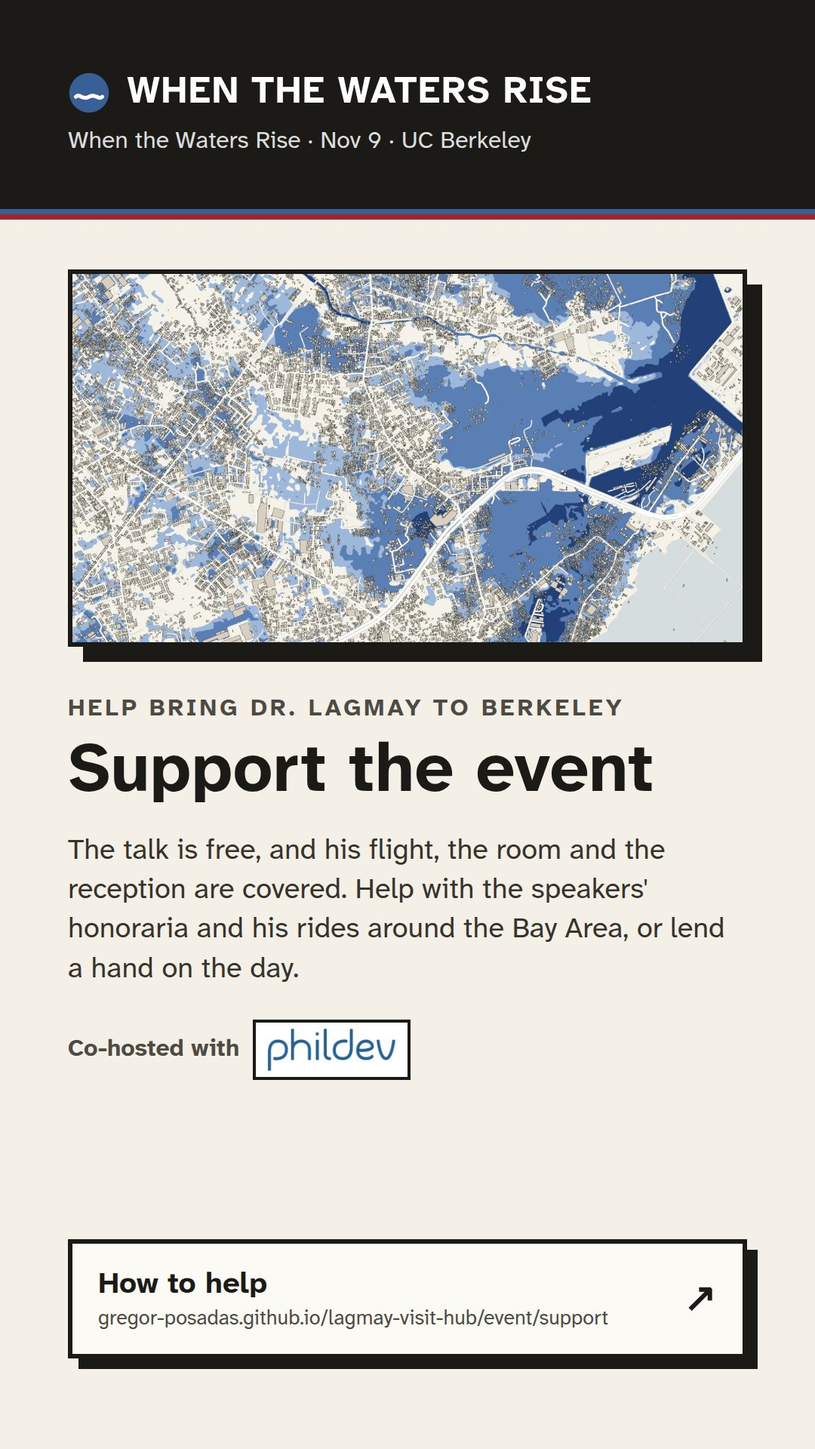
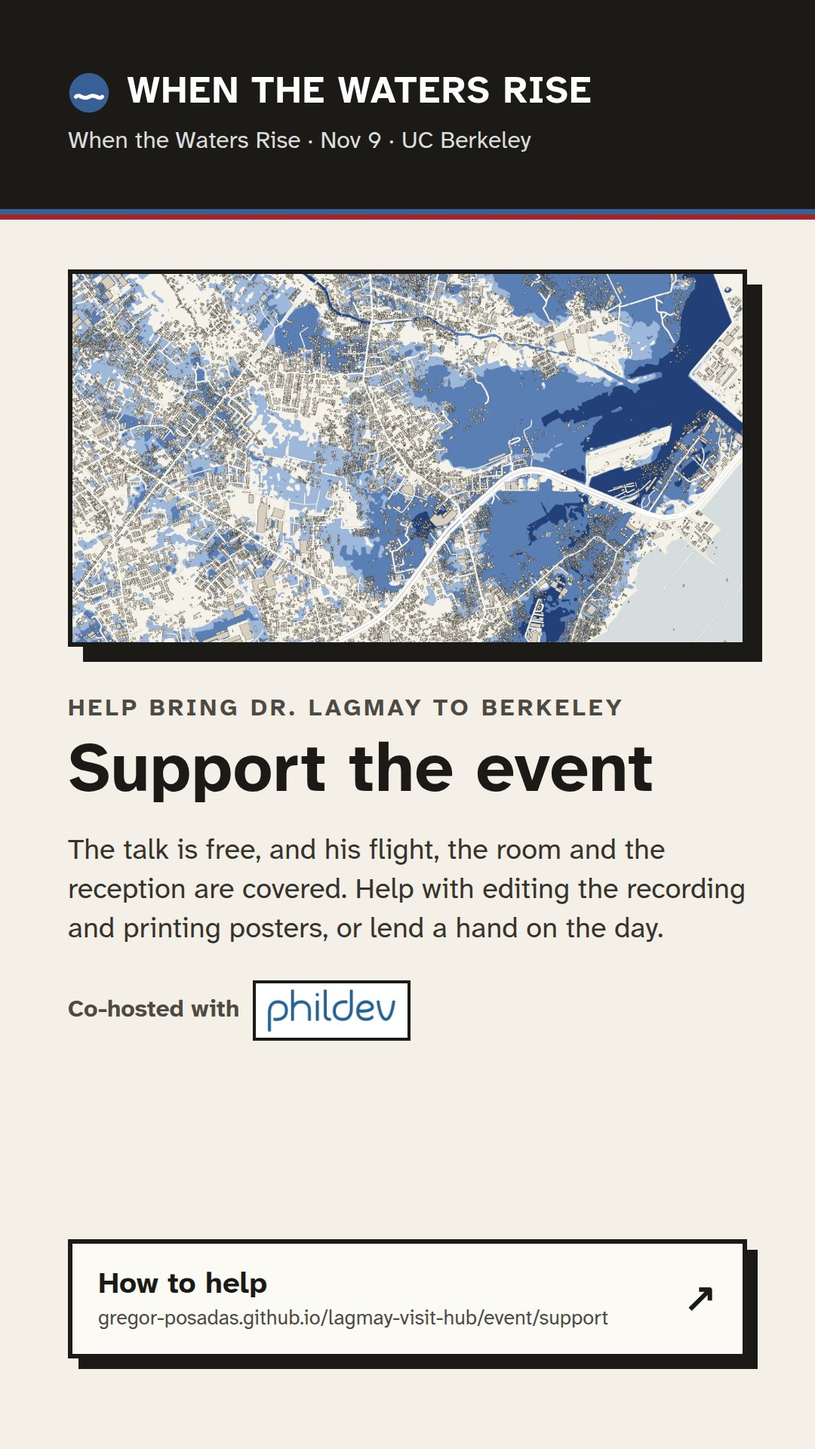
Add a Canva import page with the event graphic in five sizes; update the support share card (no more honoraria or rides)
Claude-Session: https://claude.ai/code/session_015T1wj811kShnpGQCCcZ9Q9

Changed region(s): [[0.0917, 0.5938, 0.9167, 0.75]]

diff --git a/event/canva/index.html b/event/canva/index.html
@@ -1,0 +1,13 @@
+<!doctype html><html lang="en"><head><meta charset="utf-8"><meta name="robots" content="noindex">
+<title>When the Waters Rise: graphics for Canva</title><style>
+@font-face { font-family: 'Atkinson Hyperlegible'; src: url(../../fonts/AtkinsonHyperlegibleNext-Regular.woff2); }
+@font-face { font-family: 'Atkinson Hyperlegible'; font-weight: 700; src: url(../../fonts/AtkinsonHyperlegibleNext-Bold.woff2); }
+body { margin: 0; background: #888; font-family: 'Atkinson Hyperlegible', sans-serif; }
+section { position: relative; overflow: hidden; margin: 0 0 40px; background: #f4f0e8; font-family: 'Atkinson Hyperlegible', sans-serif; }
+</style></head><body>
+<section data-document-role="page" data-label="Wide 1920 x 1080 (screens, slides, calendars)" style="width:1920px;height:1080px"><img src="map-wide.jpg" alt="Map of a Metro Manila neighborhood, streets and buildings, shaded blue where a 100-year flood would reach (UP NOAH)" style="position:absolute;left:0px;top:0px;width:820px;height:1080px"><div style="position:absolute;left:0px;top:1062px;width:820px;height:9.0px;background:#385F96;box-sizing:border-box"></div><div style="position:absolute;left:0px;top:1071.0px;width:820px;height:9.0px;background:#A3242A;box-sizing:border-box"></div><div style="position:absolute;left:820px;top:0px;width:8px;height:1080px;background:#1b1a17;box-sizing:border-box"></div><img src="wave-icon.png" alt="Wave icon" style="position:absolute;left:924px;top:72px;width:44px;height:44px"><p style="position:absolute;left:983.0px;top:76.0px;width:700px;margin:0;font-size:30px;font-weight:700;color:#1b1a17;line-height:1.2;letter-spacing:0.04em">WHEN THE WATERS RISE</p><p style="position:absolute;left:924px;top:158.4px;width:192px;margin:0;font-size:26px;font-weight:700;color:#4d4a43;line-height:1.2;letter-spacing:0em">Co-hosted with</p><img src="phildev-box.png" alt="PhilDev, the Philippine Development Foundation" style="position:absolute;left:1132px;top:138px;width:185px;height:72px"><p style="position:absolute;left:924px;top:252px;width:900px;margin:0;font-size:30px;font-weight:700;color:#4d4a43;line-height:1.2;letter-spacing:0.12em">FREE PUBLIC TALK · MON, NOV 9 · UC BERKELEY</p><h1 style="position:absolute;left:924px;top:300px;width:900px;margin:0;font-size:88px;font-weight:700;color:#1b1a17;line-height:1.04;letter-spacing:0em">Dr. Mahar Lagmay at UC Berkeley</h1><p style="position:absolute;left:924px;top:510px;width:880px;margin:0;font-size:34px;font-weight:400;color:#36332d;line-height:1.4;letter-spacing:0em">The scientist behind Project NOAH&#x27;s national flood maps, in conversation with UC Berkeley scholars Dr. Lisandro Claudio and Dr. Diana Martinez. Everyone welcome.</p><div style="position:absolute;left:924px;top:712px;width:850px;height:108px;background:#fcfaf5;border:4px solid #1b1a17;box-sizing:border-box"></div><p style="position:absolute;left:948px;top:730.36px;width:230px;margin:0;font-size:30px;font-weight:700;color:#1b1a17;line-height:1.2;letter-spacing:0em">4 to 5 PM</p><p style="position:absolute;left:948px;top:769.36px;width:230px;margin:0;font-size:24px;font-weight:400;color:#4d4a43;line-height:1.2;letter-spacing:0em">Monday, November 9</p><div style="position:absolute;left:1194px;top:716px;width:2px;height:100px;background:#cfc8b8;box-sizing:border-box"></div><p style="position:absolute;left:1218px;top:730.36px;width:290px;margin:0;font-size:30px;font-weight:700;color:#1b1a17;line-height:1.2;letter-spacing:0em">Banatao Auditorium</p><p style="position:absolute;left:1218px;top:769.36px;width:290px;margin:0;font-size:24px;font-weight:400;color:#4d4a43;line-height:1.2;letter-spacing:0em">Sutardja Dai Hall</p><div style="position:absolute;left:1524px;top:716px;width:2px;height:100px;background:#cfc8b8;box-sizing:border-box"></div><p style="position:absolute;left:1548px;top:730.36px;width:210px;margin:0;font-size:30px;font-weight:700;color:#1b1a17;line-height:1.2;letter-spacing:0em">Free</p><p style="position:absolute;left:1548px;top:769.36px;width:210px;margin:0;font-size:24px;font-weight:400;color:#4d4a43;line-height:1.2;letter-spacing:0em">Livestreamed too</p><div style="position:absolute;left:936px;top:870px;width:740px;height:160px;background:#1b1a17;box-sizing:border-box"></div><div style="position:absolute;left:924px;top:858px;width:740px;height:160px;background:#fcfaf5;border:5px solid #1b1a17;box-sizing:border-box"></div><img src="qr-rsvp.png" alt="QR code for the event page" style="position:absolute;left:942.0px;top:876.0px;width:124px;height:124px"><p style="position:absolute;left:1090.0px;top:894.4px;width:554.0px;margin:0;font-size:38px;font-weight:700;color:#1b1a17;line-height:1.15;letter-spacing:0em">RSVP</p><p style="position:absolute;left:1090.0px;top:946.0px;width:554.0px;margin:0;font-size:26px;font-weight:400;color:#4d4a43;line-height:1.2;letter-spacing:0em">gregor-posadas.github.io/lagmay-visit-hub/event</p></section>
+<section data-document-role="page" data-label="Facebook post / link preview 1200 x 630" style="width:1200px;height:630px"><img src="map-fb.jpg" alt="Map of a Metro Manila neighborhood, streets and buildings, shaded blue where a 100-year flood would reach (UP NOAH)" style="position:absolute;left:0px;top:0px;width:470px;height:630px"><div style="position:absolute;left:0px;top:618px;width:470px;height:6.0px;background:#385F96;box-sizing:border-box"></div><div style="position:absolute;left:0px;top:624.0px;width:470px;height:6.0px;background:#A3242A;box-sizing:border-box"></div><div style="position:absolute;left:470px;top:0px;width:6px;height:630px;background:#1b1a17;box-sizing:border-box"></div><p style="position:absolute;left:532px;top:54px;width:620px;margin:0;font-size:24px;font-weight:700;color:#4d4a43;line-height:1.2;letter-spacing:0.12em">FREE · MON, NOV 9 · 4 TO 5 PM</p><h1 style="position:absolute;left:532px;top:92px;width:620px;margin:0;font-size:66px;font-weight:700;color:#1b1a17;line-height:1.05;letter-spacing:0em">When the Waters Rise</h1><p style="position:absolute;left:532px;top:246px;width:612px;margin:0;font-size:27px;font-weight:400;color:#36332d;line-height:1.4;letter-spacing:0em">Dr. Mahar Lagmay of Project NOAH, with UC Berkeley scholars Dr. Lisandro Claudio and Dr. Diana Martinez, on flooding in the Philippines.</p><div style="position:absolute;left:540px;top:410px;width:470px;height:56px;background:#1b1a17;box-sizing:border-box"></div><div style="position:absolute;left:532px;top:402px;width:470px;height:56px;background:#fcfaf5;border:4px solid #1b1a17;box-sizing:border-box"></div><p style="position:absolute;left:550px;top:416px;width:440px;margin:0;font-size:22px;font-weight:700;color:#1b1a17;line-height:1.2;letter-spacing:0em">RSVP · Banatao Auditorium, UC Berkeley</p><p style="position:absolute;left:532px;top:513.0px;width:148px;margin:0;font-size:20px;font-weight:700;color:#4d4a43;line-height:1.2;letter-spacing:0em">Co-hosted with</p><img src="phildev-box.png" alt="PhilDev, the Philippine Development Foundation" style="position:absolute;left:692px;top:500px;width:129px;height:50px"></section>
+<section data-document-role="page" data-label="Instagram post 1080 x 1350" style="width:1080px;height:1350px"><img src="map-post.jpg" alt="Map of a Metro Manila neighborhood, streets and buildings, shaded blue where a 100-year flood would reach (UP NOAH)" style="position:absolute;left:0px;top:0px;width:1080px;height:430px"><div style="position:absolute;left:0px;top:430px;width:1080px;height:8.0px;background:#385F96;box-sizing:border-box"></div><div style="position:absolute;left:0px;top:438.0px;width:1080px;height:8.0px;background:#A3242A;box-sizing:border-box"></div><img src="wave-icon.png" alt="Wave icon" style="position:absolute;left:90px;top:488px;width:44px;height:44px"><p style="position:absolute;left:149.0px;top:492.0px;width:700px;margin:0;font-size:30px;font-weight:700;color:#1b1a17;line-height:1.2;letter-spacing:0.04em">WHEN THE WATERS RISE</p><p style="position:absolute;left:90px;top:568.4px;width:192px;margin:0;font-size:26px;font-weight:700;color:#4d4a43;line-height:1.2;letter-spacing:0em">Co-hosted with</p><img src="phildev-box.png" alt="PhilDev, the Philippine Development Foundation" style="position:absolute;left:298px;top:552px;width:165px;height:64px"><p style="position:absolute;left:90px;top:652px;width:900px;margin:0;font-size:26px;font-weight:700;color:#4d4a43;line-height:1.2;letter-spacing:0.12em">FREE PUBLIC TALK · MON, NOV 9 · UC BERKELEY</p><h1 style="position:absolute;left:90px;top:696px;width:900px;margin:0;font-size:80px;font-weight:700;color:#1b1a17;line-height:1.04;letter-spacing:0em">Dr. Mahar Lagmay at UC Berkeley</h1><p style="position:absolute;left:90px;top:880px;width:900px;margin:0;font-size:30px;font-weight:400;color:#36332d;line-height:1.38;letter-spacing:0em">The scientist behind Project NOAH&#x27;s national flood maps, in conversation with UC Berkeley scholars Dr. Lisandro Claudio and Dr. Diana Martinez. Everyone welcome.</p><div style="position:absolute;left:90px;top:1044px;width:900px;height:100px;background:#fcfaf5;border:4px solid #1b1a17;box-sizing:border-box"></div><p style="position:absolute;left:114px;top:1061.0px;width:220px;margin:0;font-size:28px;font-weight:700;color:#1b1a17;line-height:1.2;letter-spacing:0em">4 to 5 PM</p><p style="position:absolute;left:114px;top:1097.4px;width:220px;margin:0;font-size:22px;font-weight:400;color:#4d4a43;line-height:1.2;letter-spacing:0em">Monday, November 9</p><div style="position:absolute;left:350px;top:1048px;width:2px;height:92px;background:#cfc8b8;box-sizing:border-box"></div><p style="position:absolute;left:374px;top:1061.0px;width:320px;margin:0;font-size:28px;font-weight:700;color:#1b1a17;line-height:1.2;letter-spacing:0em">Banatao Auditorium</p><p style="position:absolute;left:374px;top:1097.4px;width:320px;margin:0;font-size:22px;font-weight:400;color:#4d4a43;line-height:1.2;letter-spacing:0em">Sutardja Dai Hall</p><div style="position:absolute;left:710px;top:1048px;width:2px;height:92px;background:#cfc8b8;box-sizing:border-box"></div><p style="position:absolute;left:734px;top:1061.0px;width:240px;margin:0;font-size:28px;font-weight:700;color:#1b1a17;line-height:1.2;letter-spacing:0em">Free</p><p style="position:absolute;left:734px;top:1097.4px;width:240px;margin:0;font-size:22px;font-weight:400;color:#4d4a43;line-height:1.2;letter-spacing:0em">Livestreamed too</p><div style="position:absolute;left:100px;top:1190px;width:888px;height:118px;background:#1b1a17;box-sizing:border-box"></div><div style="position:absolute;left:90px;top:1180px;width:888px;height:118px;background:#fcfaf5;border:5px solid #1b1a17;box-sizing:border-box"></div><img src="qr-rsvp.png" alt="QR code for the event page" style="position:absolute;left:103.0px;top:1193.0px;width:92px;height:92px"><p style="position:absolute;left:219.0px;top:1202.6px;width:739.0px;margin:0;font-size:32px;font-weight:700;color:#1b1a17;line-height:1.15;letter-spacing:0em">RSVP</p><p style="position:absolute;left:219.0px;top:1247.0px;width:739.0px;margin:0;font-size:24px;font-weight:400;color:#4d4a43;line-height:1.2;letter-spacing:0em">gregor-posadas.github.io/lagmay-visit-hub/event</p></section>
+<section data-document-role="page" data-label="Story / phone 1080 x 1920" style="width:1080px;height:1920px"><div style="position:absolute;left:0px;top:0px;width:1080px;height:282px;background:#1b1a17;box-sizing:border-box"></div><img src="wave-icon.png" alt="Wave icon" style="position:absolute;left:90px;top:90px;width:60px;height:60px"><p style="position:absolute;left:172px;top:90px;width:820px;margin:0;font-size:50px;font-weight:700;color:#ffffff;line-height:1.2;letter-spacing:0.02em">WHEN THE WATERS RISE</p><p style="position:absolute;left:90px;top:172px;width:900px;margin:0;font-size:32px;font-weight:400;color:#dddddd;line-height:1.3;letter-spacing:0em">Flooding in the Philippines, a public conversation</p><div style="position:absolute;left:0px;top:282px;width:1080px;height:7.0px;background:#385F96;box-sizing:border-box"></div><div style="position:absolute;left:0px;top:289.0px;width:1080px;height:7.0px;background:#A3242A;box-sizing:border-box"></div><div style="position:absolute;left:110px;top:382px;width:900px;height:500px;background:#1b1a17;box-sizing:border-box"></div><div style="position:absolute;left:90px;top:362px;width:900px;height:500px;background:#1b1a17;box-sizing:border-box"></div><img src="map-story.jpg" alt="Map of a Metro Manila neighborhood, streets and buildings, shaded blue where a 100-year flood would reach (UP NOAH)" style="position:absolute;left:96px;top:368px;width:888px;height:488px"><p style="position:absolute;left:90px;top:930px;width:900px;margin:0;font-size:32px;font-weight:700;color:#4d4a43;line-height:1.2;letter-spacing:0.12em">FREE PUBLIC TALK · MON, NOV 9 · 4 TO 5 PM</p><h1 style="position:absolute;left:90px;top:978px;width:900px;margin:0;font-size:92px;font-weight:700;color:#1b1a17;line-height:1.05;letter-spacing:0em">Dr. Mahar Lagmay at UC Berkeley</h1><p style="position:absolute;left:90px;top:1196px;width:900px;margin:0;font-size:38px;font-weight:400;color:#36332d;line-height:1.38;letter-spacing:0em">The scientist behind Project NOAH&#x27;s national flood maps, in conversation with UC Berkeley scholars Dr. Lisandro Claudio and Dr. Diana Martinez. Banatao Auditorium. Everyone welcome.</p><p style="position:absolute;left:90px;top:1520.8px;width:237px;margin:0;font-size:32px;font-weight:700;color:#4d4a43;line-height:1.2;letter-spacing:0em">Co-hosted with</p><img src="phildev-box.png" alt="PhilDev, the Philippine Development Foundation" style="position:absolute;left:349px;top:1500px;width:206px;height:80px"><div style="position:absolute;left:104px;top:1654px;width:900px;height:160px;background:#1b1a17;box-sizing:border-box"></div><div style="position:absolute;left:90px;top:1640px;width:900px;height:160px;background:#fcfaf5;border:5px solid #1b1a17;box-sizing:border-box"></div><img src="qr-rsvp.png" alt="QR code for the event page" style="position:absolute;left:108.0px;top:1658.0px;width:124px;height:124px"><p style="position:absolute;left:256.0px;top:1674.0px;width:714.0px;margin:0;font-size:40px;font-weight:700;color:#1b1a17;line-height:1.15;letter-spacing:0em">RSVP</p><p style="position:absolute;left:256.0px;top:1728.0px;width:714.0px;margin:0;font-size:26px;font-weight:400;color:#4d4a43;line-height:1.2;letter-spacing:0em">gregor-posadas.github.io/lagmay-visit-hub/event</p></section>
+<section data-document-role="page" data-label="Square 1080 x 1080" style="width:1080px;height:1080px"><img src="map-square.jpg" alt="Map of a Metro Manila neighborhood, streets and buildings, shaded blue where a 100-year flood would reach (UP NOAH)" style="position:absolute;left:0px;top:0px;width:1080px;height:300px"><div style="position:absolute;left:0px;top:300px;width:1080px;height:7.0px;background:#385F96;box-sizing:border-box"></div><div style="position:absolute;left:0px;top:307.0px;width:1080px;height:7.0px;background:#A3242A;box-sizing:border-box"></div><img src="wave-icon.png" alt="Wave icon" style="position:absolute;left:90px;top:344px;width:40px;height:40px"><p style="position:absolute;left:144.0px;top:347.2px;width:700px;margin:0;font-size:28px;font-weight:700;color:#1b1a17;line-height:1.2;letter-spacing:0.04em">WHEN THE WATERS RISE</p><p style="position:absolute;left:90px;top:412px;width:900px;margin:0;font-size:24px;font-weight:700;color:#4d4a43;line-height:1.2;letter-spacing:0.12em">FREE PUBLIC TALK · MON, NOV 9 · UC BERKELEY</p><h1 style="position:absolute;left:90px;top:452px;width:900px;margin:0;font-size:72px;font-weight:700;color:#1b1a17;line-height:1.04;letter-spacing:0em">Dr. Mahar Lagmay at UC Berkeley</h1><p style="position:absolute;left:90px;top:612px;width:900px;margin:0;font-size:28px;font-weight:400;color:#36332d;line-height:1.38;letter-spacing:0em">The scientist behind Project NOAH&#x27;s national flood maps, in conversation with UC Berkeley scholars Dr. Lisandro Claudio and Dr. Diana Martinez. Everyone welcome.</p><div style="position:absolute;left:90px;top:776px;width:900px;height:92px;background:#fcfaf5;border:4px solid #1b1a17;box-sizing:border-box"></div><p style="position:absolute;left:114px;top:791.64px;width:210px;margin:0;font-size:26px;font-weight:700;color:#1b1a17;line-height:1.2;letter-spacing:0em">4 to 5 PM</p><p style="position:absolute;left:114px;top:825.4399999999999px;width:210px;margin:0;font-size:20px;font-weight:400;color:#4d4a43;line-height:1.2;letter-spacing:0em">Monday, November 9</p><div style="position:absolute;left:340px;top:780px;width:2px;height:84px;background:#cfc8b8;box-sizing:border-box"></div><p style="position:absolute;left:364px;top:791.64px;width:310px;margin:0;font-size:26px;font-weight:700;color:#1b1a17;line-height:1.2;letter-spacing:0em">Banatao Auditorium</p><p style="position:absolute;left:364px;top:825.4399999999999px;width:310px;margin:0;font-size:20px;font-weight:400;color:#4d4a43;line-height:1.2;letter-spacing:0em">Sutardja Dai Hall</p><div style="position:absolute;left:690px;top:780px;width:2px;height:84px;background:#cfc8b8;box-sizing:border-box"></div><p style="position:absolute;left:714px;top:791.64px;width:260px;margin:0;font-size:26px;font-weight:700;color:#1b1a17;line-height:1.2;letter-spacing:0em">Free</p><p style="position:absolute;left:714px;top:825.4399999999999px;width:260px;margin:0;font-size:20px;font-weight:400;color:#4d4a43;line-height:1.2;letter-spacing:0em">Livestreamed too</p><div style="position:absolute;left:100px;top:922px;width:890px;height:112px;background:#1b1a17;box-sizing:border-box"></div><div style="position:absolute;left:90px;top:912px;width:890px;height:112px;background:#fcfaf5;border:5px solid #1b1a17;box-sizing:border-box"></div><img src="qr-rsvp.png" alt="QR code for the event page" style="position:absolute;left:103.0px;top:925.0px;width:86px;height:86px"><p style="position:absolute;left:213.0px;top:934.0px;width:747.0px;margin:0;font-size:30px;font-weight:700;color:#1b1a17;line-height:1.15;letter-spacing:0em">RSVP</p><p style="position:absolute;left:213.0px;top:976.0px;width:747.0px;margin:0;font-size:22px;font-weight:400;color:#4d4a43;line-height:1.2;letter-spacing:0em">gregor-posadas.github.io/lagmay-visit-hub/event</p><p style="position:absolute;left:600px;top:350.8px;width:163px;margin:0;font-size:22px;font-weight:700;color:#4d4a43;line-height:1.2;letter-spacing:0em">Co-hosted with</p><img src="phildev-box.png" alt="PhilDev, the Philippine Development Foundation" style="position:absolute;left:775px;top:338px;width:134px;height:52px"></section>
+</body></html>

diff --git a/tools/share_cards.js b/tools/share_cards.js
@@ -9,7 +9,7 @@ const cards = {
   'event-fil': { lang: 'fil', kicker: 'Libreng talakayan · Lunes, Nob 9', title: 'Si Dr. Mahar Lagmay sa UC Berkeley', sub: 'Pagbaha sa Pilipinas, isang pampublikong talakayan',
     body: 'Ang siyentipiko sa likod ng mga pambansang flood map ng Project NOAH, kasama ang mga iskolar ng UC Berkeley na sina Dr. Lisandro Claudio at Dr. Diana Martinez. Banatao Auditorium. Bukas sa lahat.', cta: 'Mag-RSVP', img: 'event/data/maps/town-metro-manila.webp', path: 'fil/' },
   'support-en': { lang: 'en', kicker: 'Help bring Dr. Lagmay to Berkeley', title: 'Support the event', sub: 'When the Waters Rise · Nov 9 · UC Berkeley',
-    body: 'The talk is free, and his flight, the room and the reception are covered. Help with the speakers\' honoraria and his rides around the Bay Area, or lend a hand on the day.', cta: 'How to help', img: 'event/data/maps/town-cebu.webp', path: 'support/' },
+    body: 'The talk is free, and his flight, the room and the reception are covered. Help with editing the recording and printing posters, or lend a hand on the day.', cta: 'How to help', img: 'event/data/maps/town-cebu.webp', path: 'support/' },
 };
 const html = c => `<!doctype html><html lang="${c.lang}"><head><meta charset="utf-8"><style>
 @font-face { font-family: A; src: url(${B}fonts/AtkinsonHyperlegibleNext-Regular.woff2); }

diff --git a/tools/canva_pages.py b/tools/canva_pages.py
@@ -1,0 +1,138 @@
+# Builds event/canva/index.html: the event graphic as five fixed-size pages
+# (wide, Facebook/link, Instagram post, story, square) for Canva's "import from URL".
+# Every element is absolutely positioned real text or an image, so Canva can make
+# each piece editable. Run: python3 tools/canva_pages.py
+import html
+
+INK, MUTED, BODY, CARD, BG = '#1b1a17', '#4d4a43', '#36332d', '#fcfaf5', '#f4f0e8'
+BLUE, RED, RULE = '#385F96', '#A3242A', '#cfc8b8'
+URL = 'gregor-posadas.github.io/lagmay-visit-hub/event'
+LOGO_RATIO = 556 / 216   # phildev-box.png width / height
+
+
+def rect(x, y, w, h, bg, border=None):
+    b = f'border:{border};' if border else ''
+    return f'<div style="position:absolute;left:{x}px;top:{y}px;width:{w}px;height:{h}px;background:{bg};{b}box-sizing:border-box"></div>'
+
+
+def text(x, y, w, size, s, weight=400, color=INK, lh=1.25, ls=0, tag='p'):
+    return (f'<{tag} style="position:absolute;left:{x}px;top:{y}px;width:{w}px;margin:0;font-size:{size}px;'
+            f'font-weight:{weight};color:{color};line-height:{lh};letter-spacing:{ls}em">{html.escape(s)}</{tag}>')
+
+
+def img(x, y, w, h, src, alt):
+    return f'<img src="{src}" alt="{html.escape(alt)}" style="position:absolute;left:{x}px;top:{y}px;width:{w}px;height:{h}px">'
+
+
+def flag(x, y, w, h):
+    return rect(x, y, w, h / 2, BLUE) + rect(x, y + h / 2, w, h / 2, RED)
+
+
+def brand(x, y, icon, size, color=INK):
+    return img(x, y, icon, icon, 'wave-icon.png', 'Wave icon') + text(x + icon + size * 0.5, y + (icon - size * 1.2) / 2, 700, size, 'WHEN THE WATERS RISE', 700, color, 1.2, 0.04)
+
+
+def cohost(x, y, size, h, gap=16):
+    lab_w = round(size * 7.4)
+    return (text(x, y + (h - size * 1.2) / 2, lab_w, size, 'Co-hosted with', 700, MUTED, 1.2)
+            + img(x + lab_w + gap, y, round(h * LOGO_RATIO), h, 'phildev-box.png', 'PhilDev, the Philippine Development Foundation'))
+
+
+def facts(x, y, widths, h, big, small):
+    cells = [('4 to 5 PM', 'Monday, November 9'), ('Banatao Auditorium', 'Sutardja Dai Hall'), ('Free', 'Livestreamed too')]
+    out = [rect(x, y, sum(widths), h, CARD, f'4px solid {INK}')]
+    cx = x
+    for i, (w, (a, b)) in enumerate(zip(widths, cells)):
+        if i:
+            out.append(rect(cx, y + 4, 2, h - 8, RULE))
+        out.append(text(cx + 24, y + h * 0.17, w - 40, big, a, 700, INK, 1.2))
+        out.append(text(cx + 24, y + h * 0.17 + big * 1.3, w - 40, small, b, 400, MUTED, 1.2))
+        cx += w
+    return ''.join(out)
+
+
+def rsvp(x, y, w, h, qr, big, small, shadow=12):
+    pad = (h - qr) / 2
+    tx = x + pad + qr + 24
+    return (rect(x + shadow, y + shadow, w, h, INK) + rect(x, y, w, h, CARD, f'5px solid {INK}')
+            + img(x + pad, y + pad, qr, qr, 'qr-rsvp.png', 'QR code for the event page')
+            + text(tx, y + h / 2 - big * 1.2 + 2, w - (tx - x) - 20, big, 'RSVP', 700, INK, 1.15)
+            + text(tx, y + h / 2 + 8, w - (tx - x) - 20, small, URL, 400, MUTED, 1.2))
+
+
+TITLE = 'Dr. Mahar Lagmay at UC Berkeley'
+BLURB = "The scientist behind Project NOAH's national flood maps, in conversation with UC Berkeley scholars Dr. Lisandro Claudio and Dr. Diana Martinez. Everyone welcome."
+MAP_ALT = 'Map of a Metro Manila neighborhood, streets and buildings, shaded blue where a 100-year flood would reach (UP NOAH)'
+
+pages = []
+
+# 1. Wide, 1920 x 1080 (screens, slides, event calendars, Facebook event cover)
+W = [img(0, 0, 820, 1080, 'map-wide.jpg', MAP_ALT), flag(0, 1062, 820, 18), rect(820, 0, 8, 1080, INK)]
+X = 924
+W += [brand(X, 72, 44, 30), cohost(X, 138, 26, 72),
+      text(X, 252, 900, 30, 'FREE PUBLIC TALK · MON, NOV 9 · UC BERKELEY', 700, MUTED, 1.2, 0.12),
+      text(X, 300, 900, 88, TITLE, 700, INK, 1.04, 0, 'h1'),
+      text(X, 510, 880, 34, BLURB, 400, BODY, 1.4),
+      facts(X, 712, [270, 330, 250], 108, 30, 24),
+      rsvp(X, 858, 740, 160, 124, 38, 26)]
+pages.append(('Wide 1920 x 1080 (screens, slides, calendars)', 1920, 1080, W))
+
+# 2. Facebook post and link preview, 1200 x 630
+F = [img(0, 0, 470, 630, 'map-fb.jpg', MAP_ALT), flag(0, 618, 470, 12), rect(470, 0, 6, 630, INK)]
+X = 532
+F += [text(X, 54, 620, 24, 'FREE · MON, NOV 9 · 4 TO 5 PM', 700, MUTED, 1.2, 0.12),
+      text(X, 92, 620, 66, 'When the Waters Rise', 700, INK, 1.05, 0, 'h1'),
+      text(X, 246, 612, 27, 'Dr. Mahar Lagmay of Project NOAH, with UC Berkeley scholars Dr. Lisandro Claudio and Dr. Diana Martinez, on flooding in the Philippines.', 400, BODY, 1.4),
+      rect(X + 8, 410, 470, 56, INK), rect(X, 402, 470, 56, CARD, f'4px solid {INK}'),
+      text(X + 18, 416, 440, 22, 'RSVP · Banatao Auditorium, UC Berkeley', 700, INK, 1.2),
+      cohost(X, 500, 20, 50, 12)]
+pages.append(('Facebook post / link preview 1200 x 630', 1200, 630, F))
+
+# 3. Instagram post, 1080 x 1350 (4:5)
+P = [img(0, 0, 1080, 430, 'map-post.jpg', MAP_ALT), flag(0, 430, 1080, 16)]
+X = 90
+P += [brand(X, 488, 44, 30), cohost(X, 552, 26, 64),
+      text(X, 652, 900, 26, 'FREE PUBLIC TALK · MON, NOV 9 · UC BERKELEY', 700, MUTED, 1.2, 0.12),
+      text(X, 696, 900, 80, TITLE, 700, INK, 1.04, 0, 'h1'),
+      text(X, 880, 900, 30, BLURB, 400, BODY, 1.38),
+      facts(X, 1044, [260, 360, 280], 100, 28, 22),
+      rsvp(X, 1180, 888, 118, 92, 32, 24, 10)]
+pages.append(('Instagram post 1080 x 1350', 1080, 1350, P))
+
+# 4. Story / phone, 1080 x 1920 (Instagram and Facebook stories, WhatsApp status)
+S = [rect(0, 0, 1080, 282, INK), img(90, 90, 60, 60, 'wave-icon.png', 'Wave icon'),
+     text(172, 90, 820, 50, 'WHEN THE WATERS RISE', 700, '#ffffff', 1.2, 0.02),
+     text(90, 172, 900, 32, 'Flooding in the Philippines, a public conversation', 400, '#dddddd', 1.3),
+     flag(0, 282, 1080, 14),
+     rect(110, 382, 900, 500, INK), rect(90, 362, 900, 500, INK), img(96, 368, 888, 488, 'map-story.jpg', MAP_ALT),
+     text(90, 930, 900, 32, 'FREE PUBLIC TALK · MON, NOV 9 · 4 TO 5 PM', 700, MUTED, 1.2, 0.12),
+     text(90, 978, 900, 92, TITLE, 700, INK, 1.05, 0, 'h1'),
+     text(90, 1196, 900, 38, "The scientist behind Project NOAH's national flood maps, in conversation with UC Berkeley scholars Dr. Lisandro Claudio and Dr. Diana Martinez. Banatao Auditorium. Everyone welcome.", 400, BODY, 1.38),
+     cohost(90, 1500, 32, 80, 22),
+     rsvp(90, 1640, 900, 160, 124, 40, 26, 14)]
+pages.append(('Story / phone 1080 x 1920', 1080, 1920, S))
+
+# 5. Square, 1080 x 1080 (Instagram square, LinkedIn, X)
+Q = [img(0, 0, 1080, 300, 'map-square.jpg', MAP_ALT), flag(0, 300, 1080, 14)]
+X = 90
+Q += [brand(X, 344, 40, 28),
+      text(X, 412, 900, 24, 'FREE PUBLIC TALK · MON, NOV 9 · UC BERKELEY', 700, MUTED, 1.2, 0.12),
+      text(X, 452, 900, 72, TITLE, 700, INK, 1.04, 0, 'h1'),
+      text(X, 612, 900, 28, BLURB, 400, BODY, 1.38),
+      facts(X, 776, [250, 350, 300], 92, 26, 20),
+      rsvp(X, 912, 890, 112, 86, 30, 22, 10),
+      cohost(600, 338, 22, 52, 12)]
+pages.append(('Square 1080 x 1080', 1080, 1080, Q))
+
+out = ['<!doctype html><html lang="en"><head><meta charset="utf-8"><meta name="robots" content="noindex">',
+       '<title>When the Waters Rise: graphics for Canva</title><style>',
+       "@font-face { font-family: 'Atkinson Hyperlegible'; src: url(../../fonts/AtkinsonHyperlegibleNext-Regular.woff2); }",
+       "@font-face { font-family: 'Atkinson Hyperlegible'; font-weight: 700; src: url(../../fonts/AtkinsonHyperlegibleNext-Bold.woff2); }",
+       "body { margin: 0; background: #888; font-family: 'Atkinson Hyperlegible', sans-serif; }",
+       "section { position: relative; overflow: hidden; margin: 0 0 40px; background: " + BG + "; font-family: 'Atkinson Hyperlegible', sans-serif; }",
+       '</style></head><body>']
+for label, w, h, els in pages:
+    out.append(f'<section data-document-role="page" data-label="{html.escape(label)}" style="width:{w}px;height:{h}px">{"".join(els)}</section>')
+out.append('</body></html>')
+open('event/canva/index.html', 'w').write('\n'.join(out))
+print('wrote event/canva/index.html with', len(pages), 'pages')
